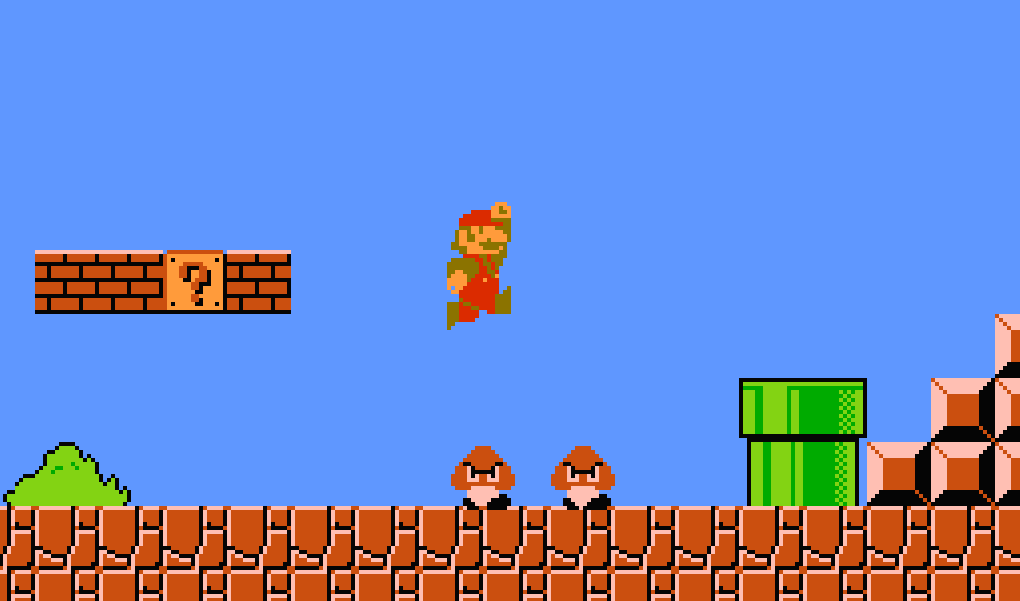
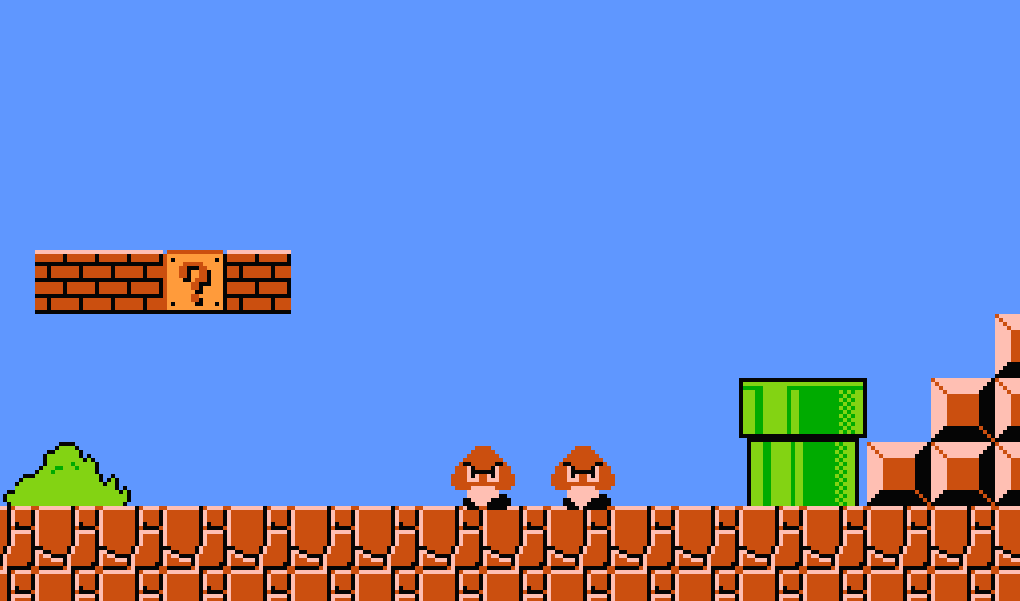
jquery konami code

Changed region(s): [[0.4255, 0.3295, 0.5167, 0.5391]]

diff --git a/03 jquery/html/konami.html b/03 jquery/html/konami.html
@@ -39,8 +39,8 @@
     <h1 style="text-align: center">WORLD<br>1-1</h1>
     <h1 style="text-align: right">TIME<br><span class="time"></span></h1>
 </div>
-
 <p>Konami Code: ↑ ↑ ↓ ↓ ← → ← → b a [enter]</p>
+<img class="mario" src="../img/mario.png" alt="mario" style="width: 6em">
 <script src="../js/jquery.js"></script>
 <script>
     "use strict";
@@ -88,7 +88,7 @@
         clearInterval(timer);
     }, 600000)
 
-    //
+    // keyup events for header
     $(document).keyup(function (event) {
         // header points handler
         let pointsEarned = parseInt(event.keyCode);
@@ -96,7 +96,7 @@
         pointsDisplay.textContent = pointsDisplay.textContent.substring(pointsDisplay.textContent.length - 6);
 
         if (keyBuffer === konamiCode) {
-            // header live handler
+            // header lives handler
             livesDisplay.textContent = (parseInt(livesDisplay.textContent) + 30).toString();
         }
     })
@@ -104,6 +104,23 @@
     $(document).click(function () {
         alert("GAME PAUSED\n\nhint: earn points with the key events!\n\nclick ok to resume");
     })
+
+    /////////////////
+    //    MARIO    //
+    /////////////////
+    $(document).onkeydown(function(e) {
+         switch (e.keyCode) {
+             case 37:
+             case 37:
+             case 37:
+             case 37:
+
+         }
+
+
+    })
+
+
 </script>
 </body>
 </html>
